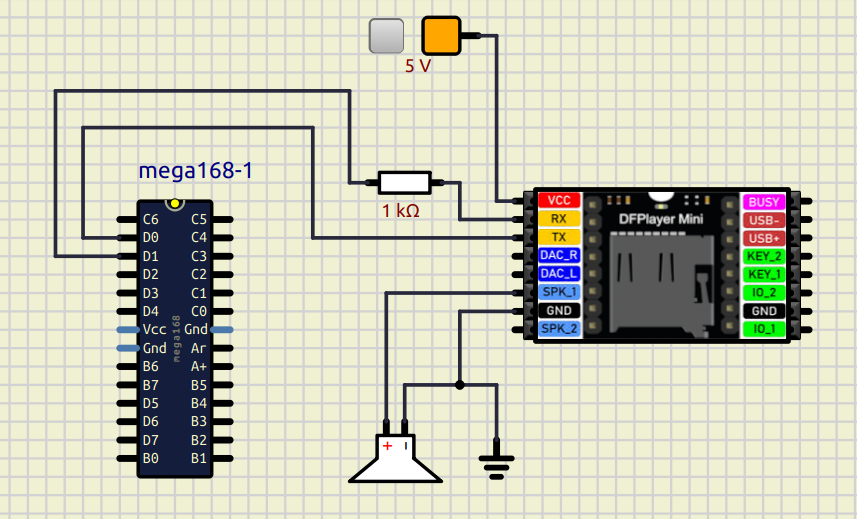
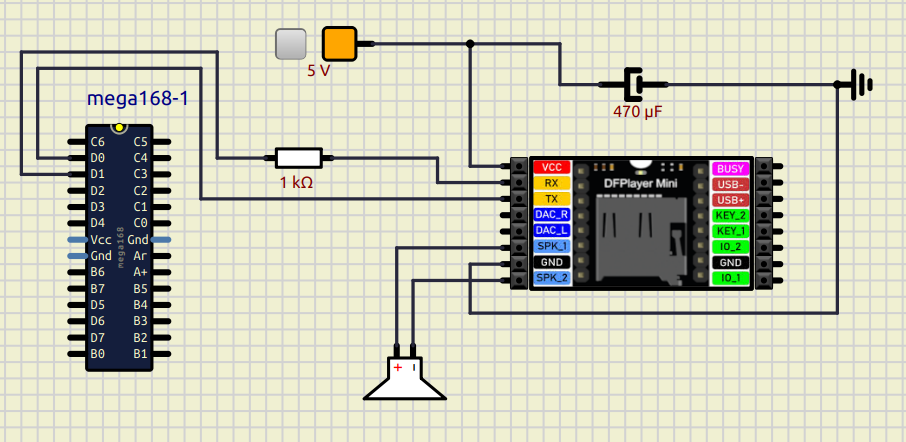
update DFPlayer mini

diff --git a/Electronica/AVR programming/Circuitos/DFPlayer mini.html b/Electronica/AVR programming/Circuitos/DFPlayer mini.html
@@ -31,10 +31,12 @@
 
     <div class="t2">Circuito</div>
         <div class="cont">
-            <p>El <b>DFPlayer mini</b> se alimenta con 5v, pero los voltajes lógicos para la comunicación a traves de UART son a 3.3v, por eso conectamos la resistencia de 1K ohm en serie.</p>
+            <p>El <b>DFPlayer mini</b> se alimenta con <b>5v</b>, pero los voltajes lógicos para la comunicación a traves de UART son a 3.3v, por eso conectamos la resistencia de <b>1K ohm</b> en serie.</p>
             <p>El circuito es el siguiente:</p>
            
             <img src="DFPlayer mini/2.png">
+
+            <p>Entre positivo y negativo debemos de colocar un <b>condensador electrolítico de 470uf</b>, este condensador evita que se filtre ruido de la alimentación en el amplificador del circuito, si no ponemos este condensador es probable que cuando el altavoz esté en reposo (sin reproducir sonido) se escuche un pequeño zumbido.</p>
 
             <p>La potencia maxima que soporta el DFPlayer mini para el altavoz es de <b>3W</b>, en este caso yo estoy usando un altavoz de 3W y 4 Ohm.</p>
         </div>
